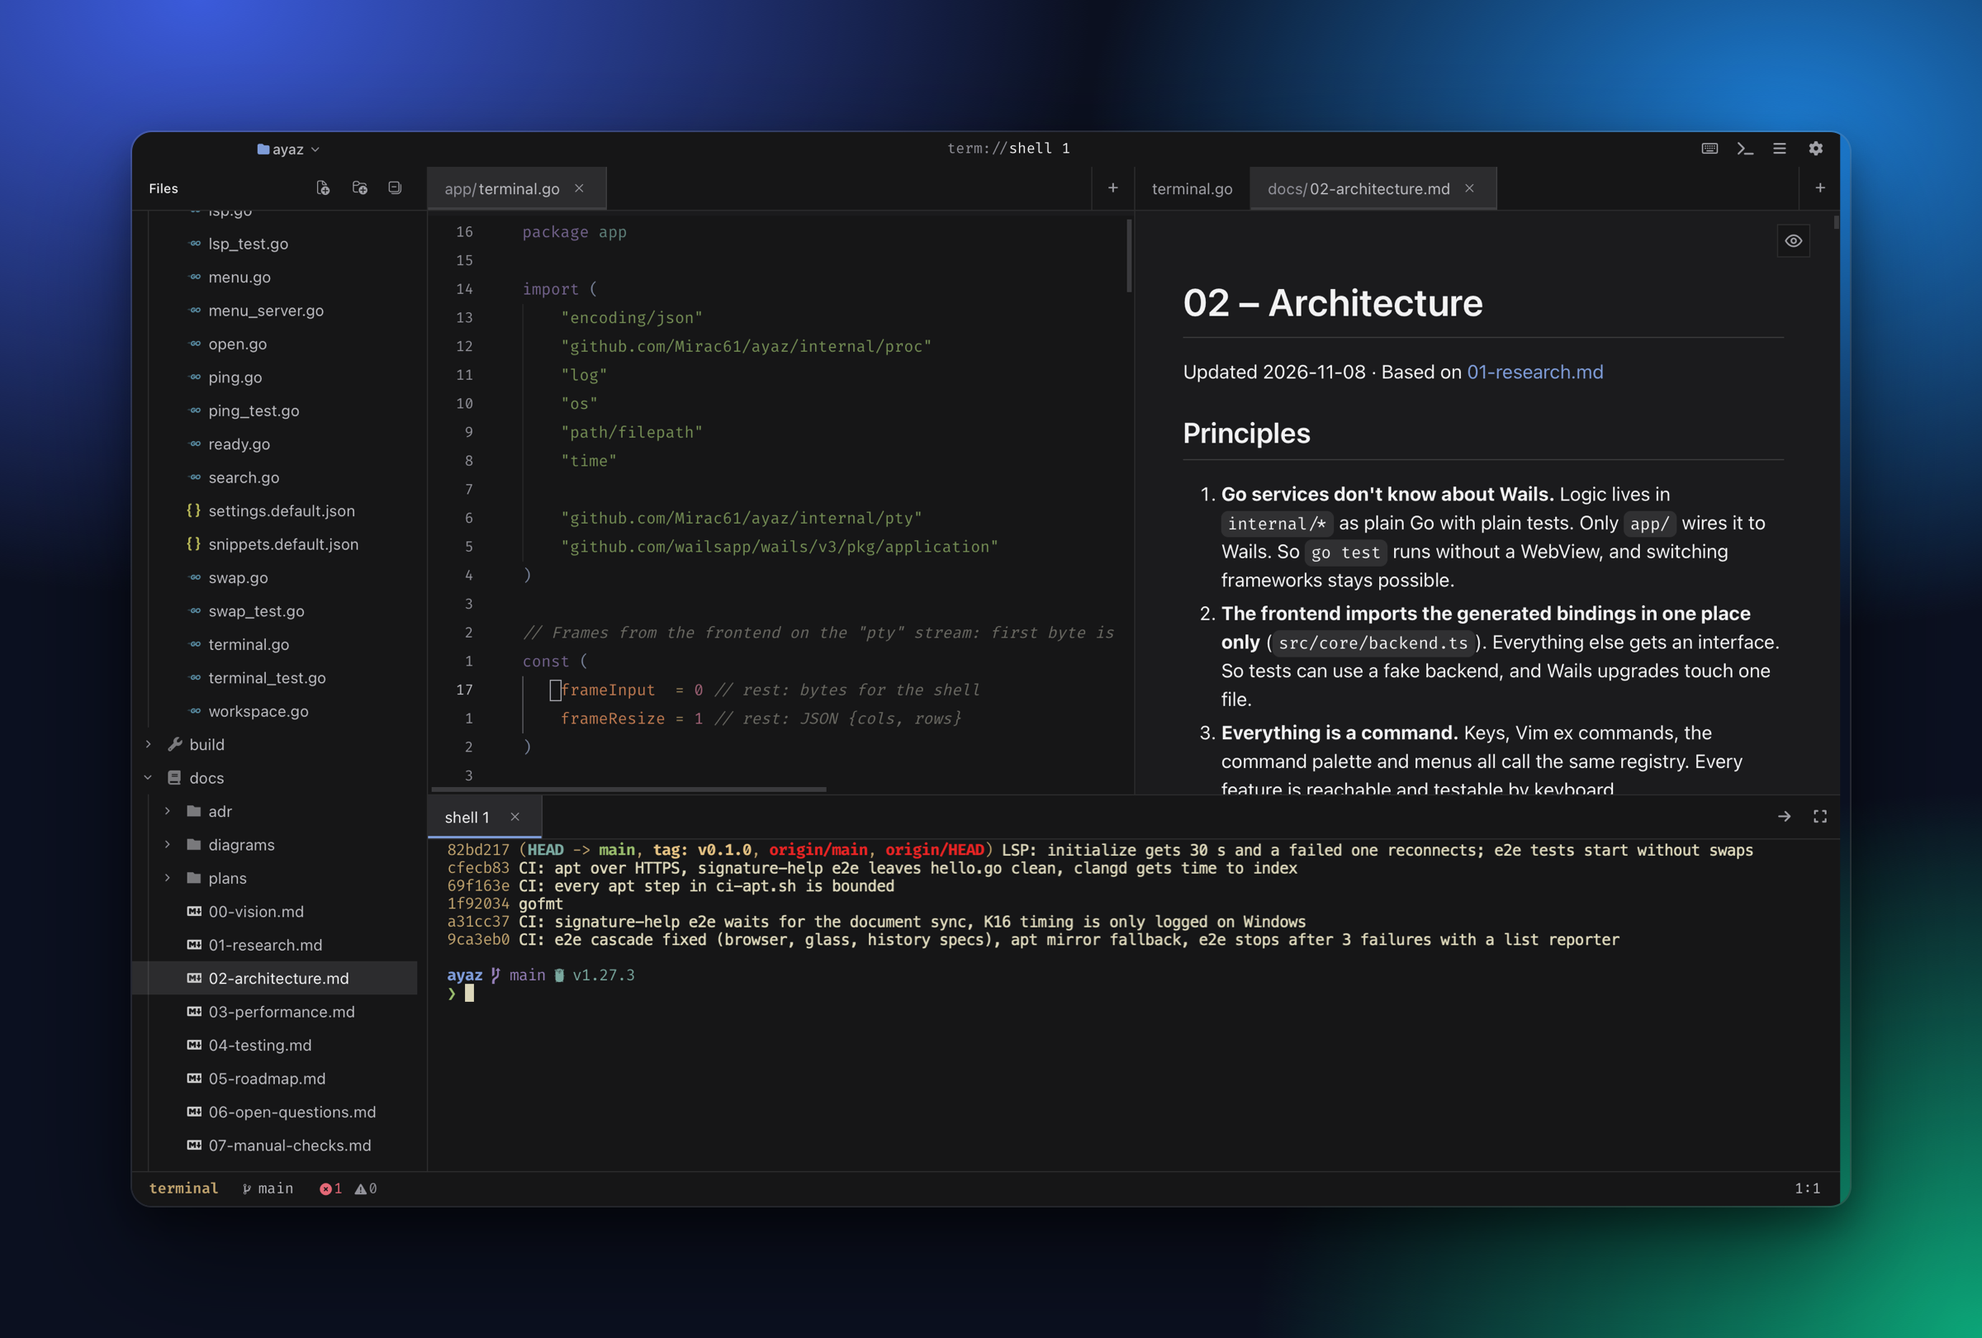
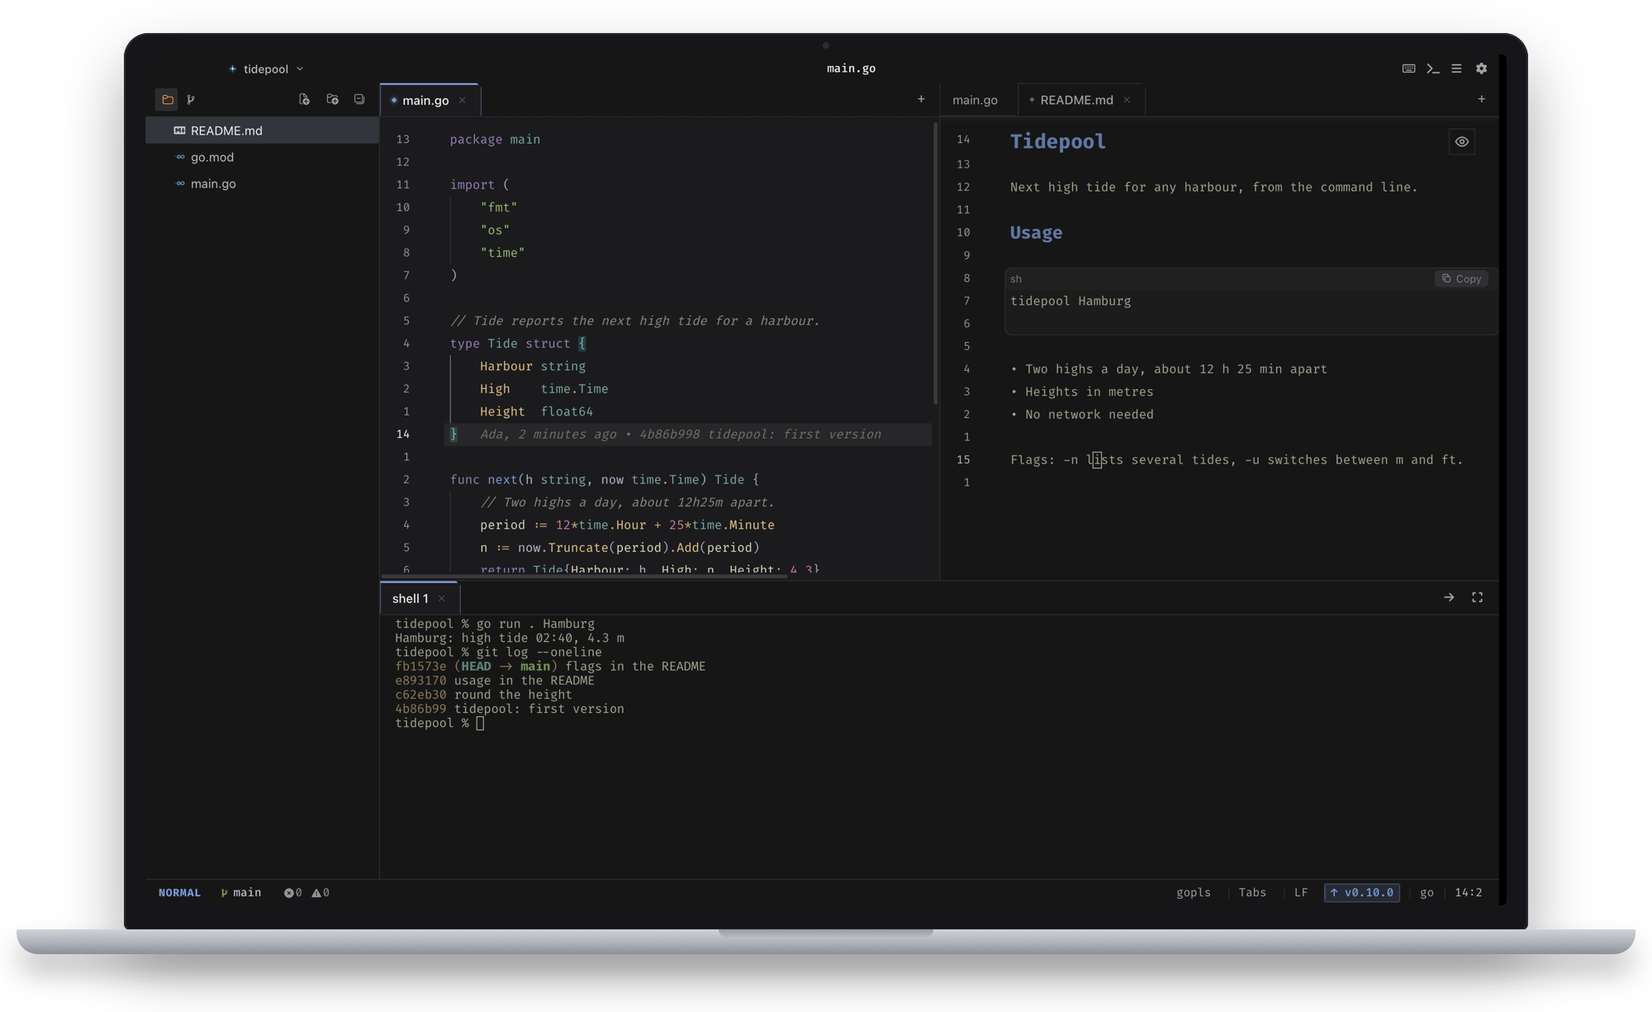
docs: shorter README with a real screenshot, build details move to docs/building.md

diff --git a/README.md b/README.md
@@ -1,160 +1,86 @@
 # Ayaz
 
-A keyboard-first code editor with a Neovim feel. It shows Markdown, PDFs and images properly and has a real terminal built in. Built with [Wails v3](https://v3.wails.io) (Go) and CodeMirror 6 (TypeScript), for macOS, Linux and Windows.
-
 [![CI](https://github.com/Mirac61/ayaz/actions/workflows/ci.yml/badge.svg)](https://github.com/Mirac61/ayaz/actions/workflows/ci.yml)
-[![Release](https://github.com/Mirac61/ayaz/actions/workflows/release.yml/badge.svg)](https://github.com/Mirac61/ayaz/actions/workflows/release.yml)
-[![Download](https://img.shields.io/badge/download-latest%20release-2ea44f?logo=github)](https://github.com/Mirac61/ayaz/releases/latest)
-[![Go](https://img.shields.io/badge/Go-Wails%20v3-00ADD8?logo=go&logoColor=white)](https://v3.wails.io)
-[![Platforms](https://img.shields.io/badge/platforms-macOS%20%7C%20Linux%20%7C%20Windows-555)](#install)
+[![Release](https://img.shields.io/github/v/release/Mirac61/ayaz)](https://github.com/Mirac61/ayaz/releases/latest)
 
-![Screenshot of Ayaz: Go code on the left, a rendered Markdown document on the right, a terminal with git log below](docs/screenshot.png)
+A code editor that feels like Neovim, but shows Markdown, PDFs and images properly and has a real terminal built in. Written in Go ([Wails v3](https://v3.wails.io)) and TypeScript ([CodeMirror 6](https://codemirror.net)), for macOS, Linux and Windows.
 
-## Contents
+![Ayaz on a laptop: Go code and the rendered README of a small project side by side, a terminal below showing a program run and git log](docs/screenshot.png)
 
-- [Features](#features)
-- [Install](#install)
-- [Use](#use)
-- [Configuration files](#configuration-files)
-- [Develop](#develop)
-- [Contributing](#contributing)
-- [Docs](#docs)
-- [Status and license](#status-and-license)
+I built it because the editors I use each miss one thing. VSCodium is heavy and its Vim mode is an emulation. Neovim can't show a PDF or an image, and has no Markdown that renders while you type. Obsidian wants a vault and isn't a code editor. Ayaz opens any folder, keeps your hands on the keyboard, and writes nothing into the folder.
 
-## Features
-
-- **Vim, not an imitation of it:** motions, text objects (also structural ones: functions, arguments), operators, `.`, registers, macros, visual and block mode, `:` commands, surround.
-- **Language servers** for Go, C/C++, TypeScript/JavaScript, HTML/CSS/JSON and Java: diagnostics, completion, hover, go to definition, rename, code actions, semantic colours, call hierarchy.
-- **Debugging** Go programs with Delve (breakpoints, stepping, variables).
-- **Markdown** that renders while you type, a reading view, and a side-by-side preview. A button at the top right of a Markdown or SVG pane switches between rendered view and source.
-- **PDF and images** (PNG, JPG, GIF, WebP, SVG) in the same panes as text.
-- **A real terminal** (xterm.js on a PTY): TUI programs such as `htop`, `lazygit` and `nvim` work.
-- **Git** in the editor: gutter marks, status in the tree, diff against HEAD, inline blame, stage and reset hunks, merge-conflict helpers.
-- **Project search and replace**, fuzzy file finder, command palette, quickfix list, project tasks.
-- **One folder per window**, session and unsaved changes restored per folder, local file history.
-- **Colour swatches** before hex colours; click one to pick a new colour.
-- Everything is a command and has a key. Bindings, settings and snippets are plain JSON files you edit in the app.
+Daily-driven on macOS and Arch Linux/Hyprland. Windows builds ship with every release but are barely tested. Free to download and use; the source is closed to forks and redistribution, see [License](#license).
 
 ## Install
 
-### Download a release
+Grab the archive for your system from the [latest release](https://github.com/Mirac61/ayaz/releases/latest) (checksums in `SHA256SUMS`):
 
-Every `v*` tag builds the three archives below ([latest release](https://github.com/Mirac61/ayaz/releases/latest)):
-
-| File | Platform | What's inside | How to start it |
-|---|---|---|---|
-| `ayaz-windows-amd64.zip` | Windows 10/11, x64 | `ayaz.exe` | Unzip anywhere and run `ayaz.exe`. SmartScreen warns because the exe isn't signed: *More info → Run anyway*. Needs WebView2 (part of Windows 11, on Windows 10 usually installed with Edge). |
-| `ayaz-macos-arm64.zip` | macOS, Apple silicon | `ayaz.app` | Unzip, move to `/Applications`. The app isn't notarized: right-click → Open on the first start, or `xattr -dr com.apple.quarantine /Applications/ayaz.app`. |
-| `ayaz-linux-amd64.tar.gz` | Linux, x64 | `ayaz` binary, `ayaz.desktop` | Put `ayaz` on your `PATH`, the desktop file in `~/.local/share/applications`. Needs `gtk4` and `webkitgtk-6.0`. |
-
-### Build from source
-
-Each platform needs **Go**, **[Bun](https://bun.sh)**, **[Task](https://taskfile.dev)** and the Wails CLI:
-
-```sh
-go install github.com/wailsapp/wails/v3/cmd/wails3@v3.1.0
-git clone https://github.com/Mirac61/ayaz && cd ayaz
-task install
-```
-
-`task install` builds the app and installs it for the current user:
-
-| Platform | What it does | Extra requirements |
+| File | Platform | First start |
 |---|---|---|
-| macOS | builds `bin/ayaz.app`, copies it to `/Applications/Ayaz.app` | Xcode Command Line Tools |
-| Linux | binary to `~/.local/bin/ayaz`, launcher entry to `~/.local/share/applications` | `gtk4`, `webkitgtk-6.0` and their `-dev` packages |
-| Windows | `ayaz.exe` to `%LOCALAPPDATA%\Ayaz` and a Start menu shortcut | WebView2 (part of Windows 11) |
+| `ayaz-macos-arm64.zip` | macOS, Apple silicon | Move `ayaz.app` to `/Applications`. It isn't notarized: right-click → Open once, or `xattr -dr com.apple.quarantine /Applications/ayaz.app`. |
+| `ayaz-linux-amd64.tar.gz` | Linux, x64 | Put `ayaz` on your `PATH` and `ayaz.desktop` in `~/.local/share/applications`. Needs `gtk4` and `webkitgtk-6.0`. |
+| `ayaz-windows-amd64.zip` | Windows 10/11, x64 | Unzip and run `ayaz.exe`. SmartScreen warns about the unsigned exe: *More info → Run anyway*. Needs WebView2. |
 
-Arch Linux can use the package instead: `cd build/linux/arch && makepkg -si`.
-
-### Language servers (optional)
-
-Ayaz starts them through your login shell (on Windows: from `PATH`), so whatever you have installed works. A missing server shows a hint in the status line.
-
-| Language | Server |
-|---|---|
-| Go | `go install golang.org/x/tools/gopls@latest` (debugging: `dlv`) |
-| C/C++ | `clangd` (Xcode Command Line Tools, or `clang` on Arch); a `compile_commands.json` gives it the real flags |
-| TS/JS | `bun add -g typescript typescript-language-server` |
-| HTML/CSS/JSON | `bun add -g vscode-langservers-extracted` |
-| Java | `jdtls` (Homebrew or AUR) |
+Building from source requires Go, Bun, Task and the Wails CLI; then `task install` does the rest. Details, plus the language servers to install, are in [docs/building.md](docs/building.md).
 
 ## Use
 
 ```sh
-ayaz ~/code/project        # open a folder (macOS: /Applications/Ayaz.app/Contents/MacOS/ayaz)
-ayaz main.go:12            # with Ayaz running: open the file at that line in the window of its folder
-EDITOR="ayaz --wait" git commit   # git waits until the buffer is closed
+ayaz ~/code/project               # open a folder
+ayaz main.go:12                   # jump to a line in the running window of that folder
+EDITOR="ayaz --wait" git commit   # git waits until you close the buffer
 ```
 
-The leader key is `Space`. A few bindings to start with:
+The leader key is `Space`. Everything is a command with an ID, and `<Space>fk` lists them all.
 
 | Keys | Does |
 |---|---|
 | `<Space>ff` / `fw` / `fk` | find files / search text / command palette |
-| `<Space>e` | focus the file tree |
-| `<Space>t` | terminal panel |
+| `<Space>e` / `t` | file tree / terminal panel |
 | `<Space>mr` / `mp` | Markdown reading view / preview split |
 | `<Space>cr` / `ca` | rename / code action |
 | `<Space>gb` / `gd` / `gg` | blame / diff / lazygit |
 | `<Space>dd` / `db` / `dc` | start debugging / breakpoint / continue |
 | `<C-w>v` / `s` | split right / down |
 
-The welcome page lists more. Everything is a command ID: `<Space>fk` shows them all, and the keymap file rebinds any of them.
+## Features
 
-## Configuration files
+- **Vim:** motions, text objects (also structural ones such as functions and arguments), operators, `.`, registers, macros, visual and block mode, `:` commands, surround.
+- **Language servers** for Go, C/C++, TypeScript/JavaScript, HTML/CSS/JSON, Java, Python, Rust, Lua, YAML, TOML, Dockerfile, LaTeX and Typst: diagnostics, completion, hover, go to definition, rename, code actions, semantic colours, call hierarchy. A missing server shows an install hint instead of failing.
+- **Debugger** for Go (Delve), Python (debugpy) and C, C++, Rust (lldb-dap): breakpoints, stepping, variables.
+- **Markdown** renders while you type, with a reading view and a side-by-side preview. **PDFs** and **images** (PNG, JPG, GIF, WebP, SVG) open in the same panes as text.
+- **Terminal** on a real PTY (xterm.js), so `htop`, `lazygit` and `nvim` work. `file:line:col` in its output opens the file.
+- **Git:** gutter marks, status in the tree, diff against HEAD, inline blame, stage and reset hunks, merge-conflict helpers.
+- **Search and navigation:** project search and replace, fuzzy file finder, command palette, quickfix list, project tasks.
+- **Folders:** one per window, session and unsaved changes restored, local file history, a start page with your recent folders. Updates come from the GitHub releases.
 
-Ayaz creates three JSON files on the first start, each with comments that explain the format. `Cmd+,` (Linux and Windows: `Ctrl+,`) opens them in a settings window; a saved file applies without a restart.
+## Configure
 
-| File | What it controls | Defaults, explained |
+Three JSON files, created on first start with comments that explain the format. `Cmd+,` (Linux and Windows: `Ctrl+,`) opens them in a settings window; a saved file applies without a restart.
+
+| File | Controls | Defaults |
 |---|---|---|
-| `settings.json` | font and size, theme and colours, tab width, wrapping, format on save, sidebar and status line, project tasks, per-language overrides | [`app/settings.default.json`](app/settings.default.json) |
-| `keymap.json` | extra or changed key bindings, by mode and command ID | [`app/keymap.default.json`](app/keymap.default.json) |
-| `snippets.json` | your own snippets per language | [`app/snippets.default.json`](app/snippets.default.json) |
+| `settings.json` | font, theme and colours, tab width, wrapping, format on save, sidebar, project tasks, per-language overrides | [`settings.default.json`](app/settings.default.json) |
+| `keymap.json` | key bindings by mode and command ID | [`keymap.default.json`](app/keymap.default.json) |
+| `snippets.json` | your own snippets per language | [`snippets.default.json`](app/snippets.default.json) |
 
 They live in `~/Library/Application Support/ayaz` (macOS), `~/.config/ayaz` (Linux) or `%AppData%\ayaz` (Windows).
 
 ## Develop
 
 ```sh
-wails3 dev                        # hot reload
-task build                        # binary in bin/
-go test ./...                     # Go tests
-cd frontend
-bun install
-bun run typecheck && bun run lint
-bun run test                      # unit tests (Vitest, Node)
-bun run test:browser              # component tests (Vitest browser mode, WebKit)
-bun run e2e                       # Playwright against the server build (see docs/04-testing.md)
+wails3 dev                            # hot reload
+task test                             # Go, typecheck and Node tests
+bun run --cwd frontend test:browser   # browser tests (WebKit), not run in CI
+bun run --cwd frontend e2e            # Playwright against the server build, not run in CI
 ```
 
-| Workflow | Runs on | What it does |
-|---|---|---|
-| [`ci.yml`](.github/workflows/ci.yml) | pull requests and pushes to `main`/`dev` | one Ubuntu job: Go lint, `go test -race`, `govulncheck`, frontend typecheck, lint and Node tests. Browser and E2E tests don't run in CI, run them yourself ([docs/04-testing.md](docs/04-testing.md)) |
-| [`release.yml`](.github/workflows/release.yml) | `v*` tags, manual | builds the macOS, Windows and Linux archives; a tag also publishes them as a GitHub release |
-
-The code is split like this:
-
-| Folder | Contents |
-|---|---|
-| `app/` | Wails services: workspace, terminal, language servers, debugger, settings |
-| `internal/` | Go packages: `workspace` (path jail, file ops), `lsp`, `dap`, `pty`, `proc`, `git`, `search`, `index`, `watch`, `fsserve` |
-| `frontend/src/` | `editor/` (CodeMirror, Vim, Markdown), `shell/` (panes, tree, picker), `viewers/` (images, PDF, browser), `terminal/`, `debug/`, `core/`, `theme/` |
-| `build/` | per-platform packaging (`darwin`, `linux`, `windows`) |
-| `docs/` | vision, research, architecture, ADRs, roadmap, testing, manual checks |
+The code is split into Wails services in `app/`, Go packages in `internal/` and the React and CodeMirror frontend in `frontend/src/`. [docs/02-architecture.md](docs/02-architecture.md) explains how they fit together, [docs/04-testing.md](docs/04-testing.md) what runs where, and the [ADRs](docs/adr/) why things are the way they are. Also in [docs/](docs/): [vision](docs/00-vision.md), [performance](docs/03-performance.md), [roadmap](docs/05-roadmap.md), [manual checks](docs/07-manual-checks.md) and [Windows notes](docs/08-windows.md).
 
 ## Contributing
 
-Bug reports and ideas go into [issues](https://github.com/Mirac61/ayaz/issues). For a pull request, keep it to one change, add a test next to the code you touch, and run the checks from [Develop](#develop) before pushing; CI runs the Go and Node checks, the browser and E2E tests are yours to run. Reports from Windows are especially welcome: [docs/08-windows.md](docs/08-windows.md) lists what to check first.
+Bug reports and ideas go into [issues](https://github.com/Mirac61/ayaz/issues). A pull request should be one change with a test next to the code it touches; run the checks from [Develop](#develop) first, since CI only covers the Go and Node ones. Reports from Windows are especially welcome: [docs/08-windows.md](docs/08-windows.md) lists what to check first.
 
-## Docs
+## License
 
-[Vision](docs/00-vision.md) · [Architecture](docs/02-architecture.md) · [Performance](docs/03-performance.md) · [Testing](docs/04-testing.md) · [Roadmap](docs/05-roadmap.md) · [Manual checks](docs/07-manual-checks.md) · [Windows](docs/08-windows.md) · [Decisions (ADRs)](docs/adr/)
-
-## Status and license
-
-Daily-usable on macOS and Arch Linux/Hyprland. Windows builds come with every release but haven't been tested much on real machines yet.
-
-Copyright © 2026 Mirac. All rights reserved.
-
-Ayaz is free to download, build from source, and use for personal and professional software development. However, the software and source code are proprietary: **forking, modifying, copying, or redistributing the software or its code is strictly prohibited** without prior written permission. See [LICENSE](LICENSE) for details.
+Copyright © 2026 Mirac. All rights reserved. Ayaz is free to download, build from source and use for personal and professional software development. The software and its source code are proprietary: forking, modifying, copying or redistributing them is prohibited without prior written permission. See [LICENSE](LICENSE).

diff --git a/docs/building.md b/docs/building.md
@@ -1,0 +1,41 @@
+# Build and install from source
+
+Needs **Go**, **[Bun](https://bun.sh)**, **[Task](https://taskfile.dev)** and the Wails CLI:
+
+```sh
+go install github.com/wailsapp/wails/v3/cmd/wails3@v3.1.0
+git clone https://github.com/Mirac61/ayaz && cd ayaz
+task install
+```
+
+`task install` builds the app and installs it for the current user:
+
+| Platform | What it does | Extra requirements |
+|---|---|---|
+| macOS | builds `bin/ayaz.app`, copies it to `/Applications/Ayaz.app` | Xcode Command Line Tools |
+| Linux | binary to `~/.local/bin/ayaz`, launcher entry to `~/.local/share/applications` | `gtk4`, `webkitgtk-6.0` and their `-dev` packages |
+| Windows | `ayaz.exe` to `%LOCALAPPDATA%\Ayaz` and a Start menu shortcut | WebView2 (part of Windows 11) |
+
+Arch Linux can use the package instead: `cd build/linux/arch && makepkg -si`.
+
+For hot reload use `wails3 dev`; for a binary only, `task build` (it lands in `bin/`). Windows notes: [08-windows.md](08-windows.md).
+
+## Language servers (optional)
+
+Ayaz starts them through your login shell (on Windows: from `PATH`), so whatever you have installed works. A missing server shows a hint in the status line.
+
+| Language | Server |
+|---|---|
+| Go | `go install golang.org/x/tools/gopls@latest` |
+| C/C++ | `clangd` (Xcode Command Line Tools, or `clang` on Arch); a `compile_commands.json` gives it the real flags |
+| TypeScript, JavaScript | `bun add -g typescript typescript-language-server` |
+| HTML, CSS, JSON, YAML | `bun add -g vscode-langservers-extracted yaml-language-server` |
+| Java | `jdtls` (Homebrew or AUR) |
+| Python | `pyright-langserver` (`bun add -g pyright`) |
+| Rust | `rust-analyzer` |
+| Lua | `lua-language-server` |
+| TOML | `taplo` |
+| Dockerfile | `docker-langserver` (`bun add -g dockerfile-language-server-nodejs`) |
+| LaTeX, Typst | `texlab`, `tinymist` |
+
+Debugging needs the adapter for the language: `dlv` (Go), `debugpy` (Python), `lldb-dap` (C, C++, Rust).

diff --git a/docs/02-architecture.md b/docs/02-architecture.md
@@ -195,9 +195,9 @@ func (s *LspService) Ensure(ws, lang string) (streamName string, err error) // s
 - Global shortcuts for places where Vim doesn't apply (terminal, insert mode): `Cmd+…` on macOS, `Ctrl+Shift+…` on Linux.
 - Every key is configurable; the above are only defaults (Q22).
 
-### Default keymap (from my nvim config)
+### Default keymap
 
-Leader is `<Space>`. All of these are only defaults and can be changed in the config.
+Leader is `<Space>`. A selection of the defaults; the full list is in the command palette (`<Space>fk`) and `frontend/src/core/keymap.ts`. All of them can be changed in `keymap.json`.
 
 | Keys | Command |
 |---|---|
@@ -215,11 +215,10 @@ Leader is `<Space>`. All of these are only defaults and can be changed in the co
 | `<Space>t` | terminal in the bottom panel |
 | `<Space>tc` | terminal as a split on the right |
 | `<Space>gg` | lazygit in a terminal |
-| `<Space>cf` | format buffer |
 | `gd` / `gr` | go to definition / references |
 | `<Space>ca` | code action |
-| `<Space>rn` | rename |
-| `<Space>ds` / `<Space>ws` | document / workspace symbols |
+| `<Space>cr` | rename |
+| `<Space>fs` / `<Space>fS` | document / workspace symbols |
 
 Also in M2: `<C-w>s` / `<C-w>v` split, `<C-w>c` / `<C-w>q` close a pane, `<C-w>h/j/k/l` like `Ctrl-h/j/k/l`, `:sp`, `:vs`.
 Outside Vim: find files `Cmd+P` (macOS) / `Ctrl+Shift+P` (Linux), command palette `Cmd+Shift+P` (macOS) and `F1` (both). Linux has no `Ctrl+Shift+P` palette because that chord is the file finder there (Q22 rule).

diff --git a/docs/06-open-questions.md b/docs/06-open-questions.md
@@ -13,7 +13,7 @@ Updated 2026-11-16 · Each question has a recommendation and a reason. All of th
 | Q5 | Organizing files | splits + buffer list, tab bar optional |
 | Q6 | Saving | explicit (`:w`, `Cmd/Ctrl+S`) |
 | Q20 | Daily Vim features | the basics, list in [04 – Vim core list](04-testing.md#vim-core-list-q20) |
-| Q21 | Leader mappings | taken from my nvim config as defaults (see [02 – Default keymap](02-architecture.md#default-keymap-from-my-nvim-config)) |
+| Q21 | Leader mappings | taken from my nvim config as defaults (see [02 – Default keymap](02-architecture.md#default-keymap)) |
 | Q22 | Shortcuts | every key configurable. Defaults: `<Space>` leader in Vim normal mode (insert mode types a normal space), plus `Cmd+…` on macOS / `Ctrl+Shift+…` on Linux where Vim doesn't apply (terminal, insert mode) |
 | Q23 | Terminal | both, like VS Code/Zed: bottom panel toggled with `Cmd+J` / `Ctrl+Shift+J`, or a normal pane in the splits |
 | Q24 | Leave terminal insert mode | `Ctrl-\ Ctrl-n` like nvim, plus a configurable alternative |

diff --git a/docs/05-roadmap.md b/docs/05-roadmap.md
@@ -55,7 +55,7 @@ Done when: a real file can be edited with highlighting. An external change leads
 - [Own] `core/commands` + `core/keymap` (ADR-0010), every key configurable (Q22). Move the M1 ex commands onto commands.
 - [Own] `index` + fuzzy matcher (ADR-0007), file rules from Q26 incl. the setting to show ignored files.
 - [Glue] Picker (`<Space>ff`, `Cmd+P` / `Ctrl+Shift+P`), recent files (`<Space>fo`), buffer list (`<Space>fb`), command palette.
-- [Glue] Default keymap from my nvim config ([02](02-architecture.md#default-keymap-from-my-nvim-config)).
+- [Glue] Default keymap from my nvim config ([02](02-architecture.md#default-keymap)).
 - [Own] Splits (`:split`, `:vsplit`, `Ctrl-h/j/k/l` and `Ctrl-w h/j/k/l`), buffers independent of panes.
 - [Glue] Status line with Vim mode.
 
